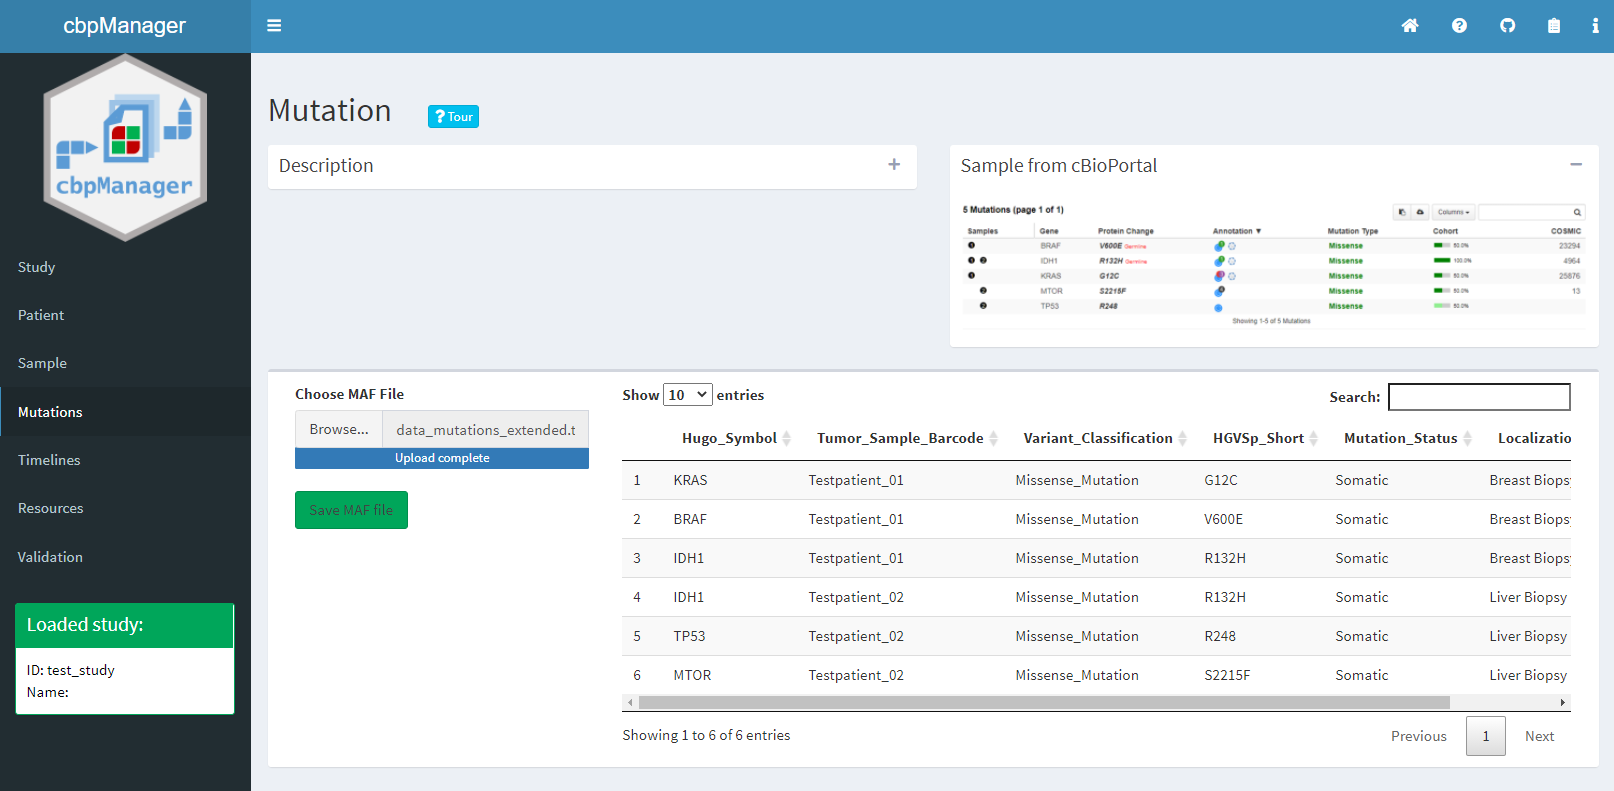
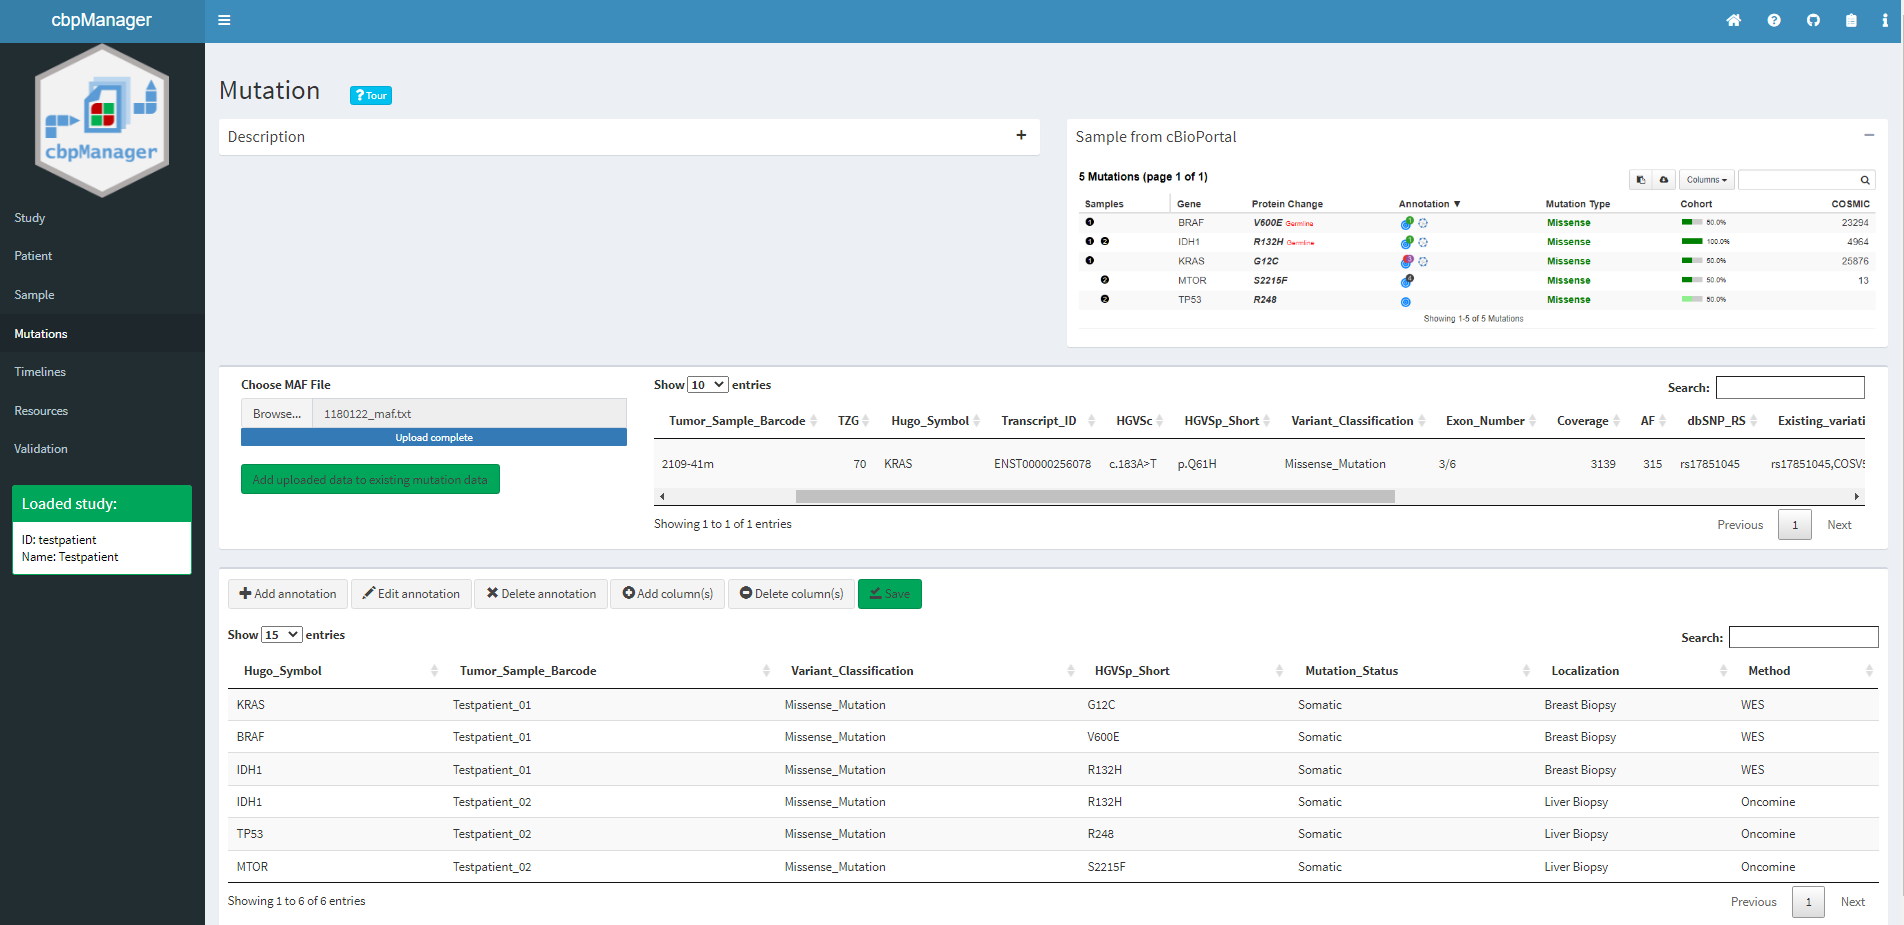
updated docu and tour

diff --git a/inst/apphelp/descriptionMutationTab.md b/inst/apphelp/descriptionMutationTab.md
@@ -1,4 +1,9 @@
-**Load a valid Mutation Annotation Format (MAF) file.** This file is used in cBioPortal for the mutation panel (see image on the right.)
+**Add cBioPortal's mutation annotation data**
+
+**Add MAF file to mutation data** 
+1. Upload a valid mutation annotation format (MAF) file. 
+2. Check in the preview table appearing on the right of the upload widget if your uploaded data is correct. 
+3. If your uploaded data seems to be correct, press the button **Add uploaded data to existing mutation data** to concatenate the maf file with already existing data. Note: Columns with the same column name will be merged together. Columns not present in the existing mutation data will be added to it.
 
 ---
 
